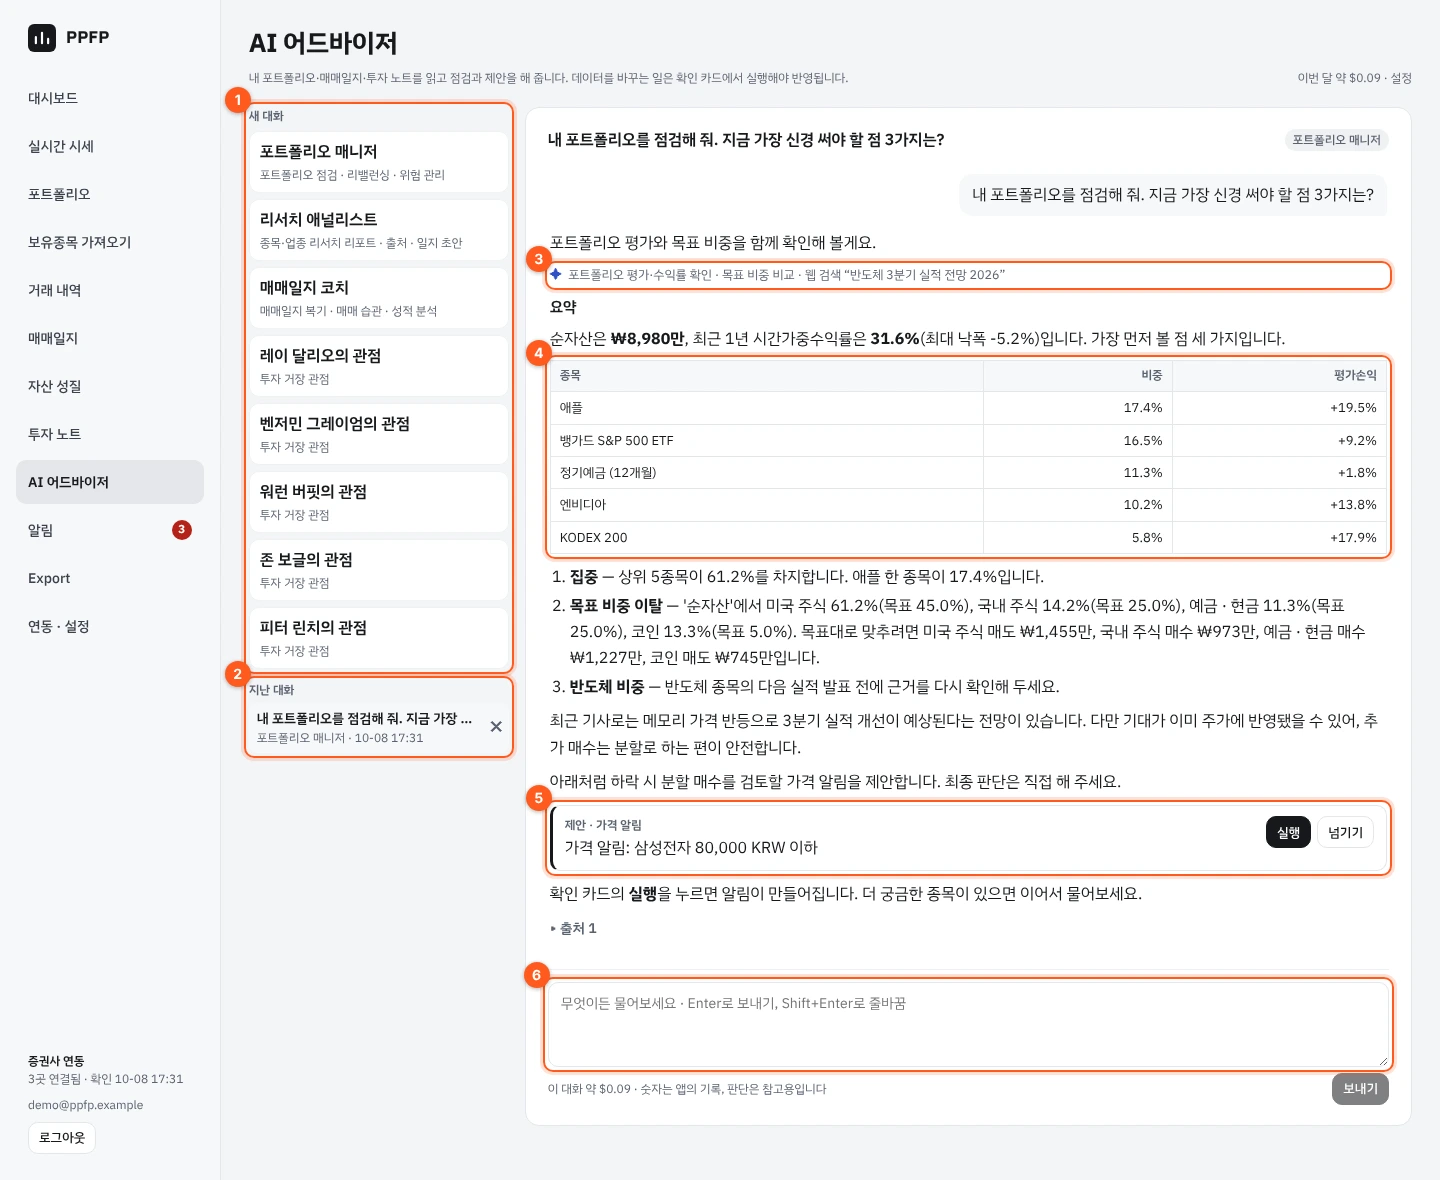
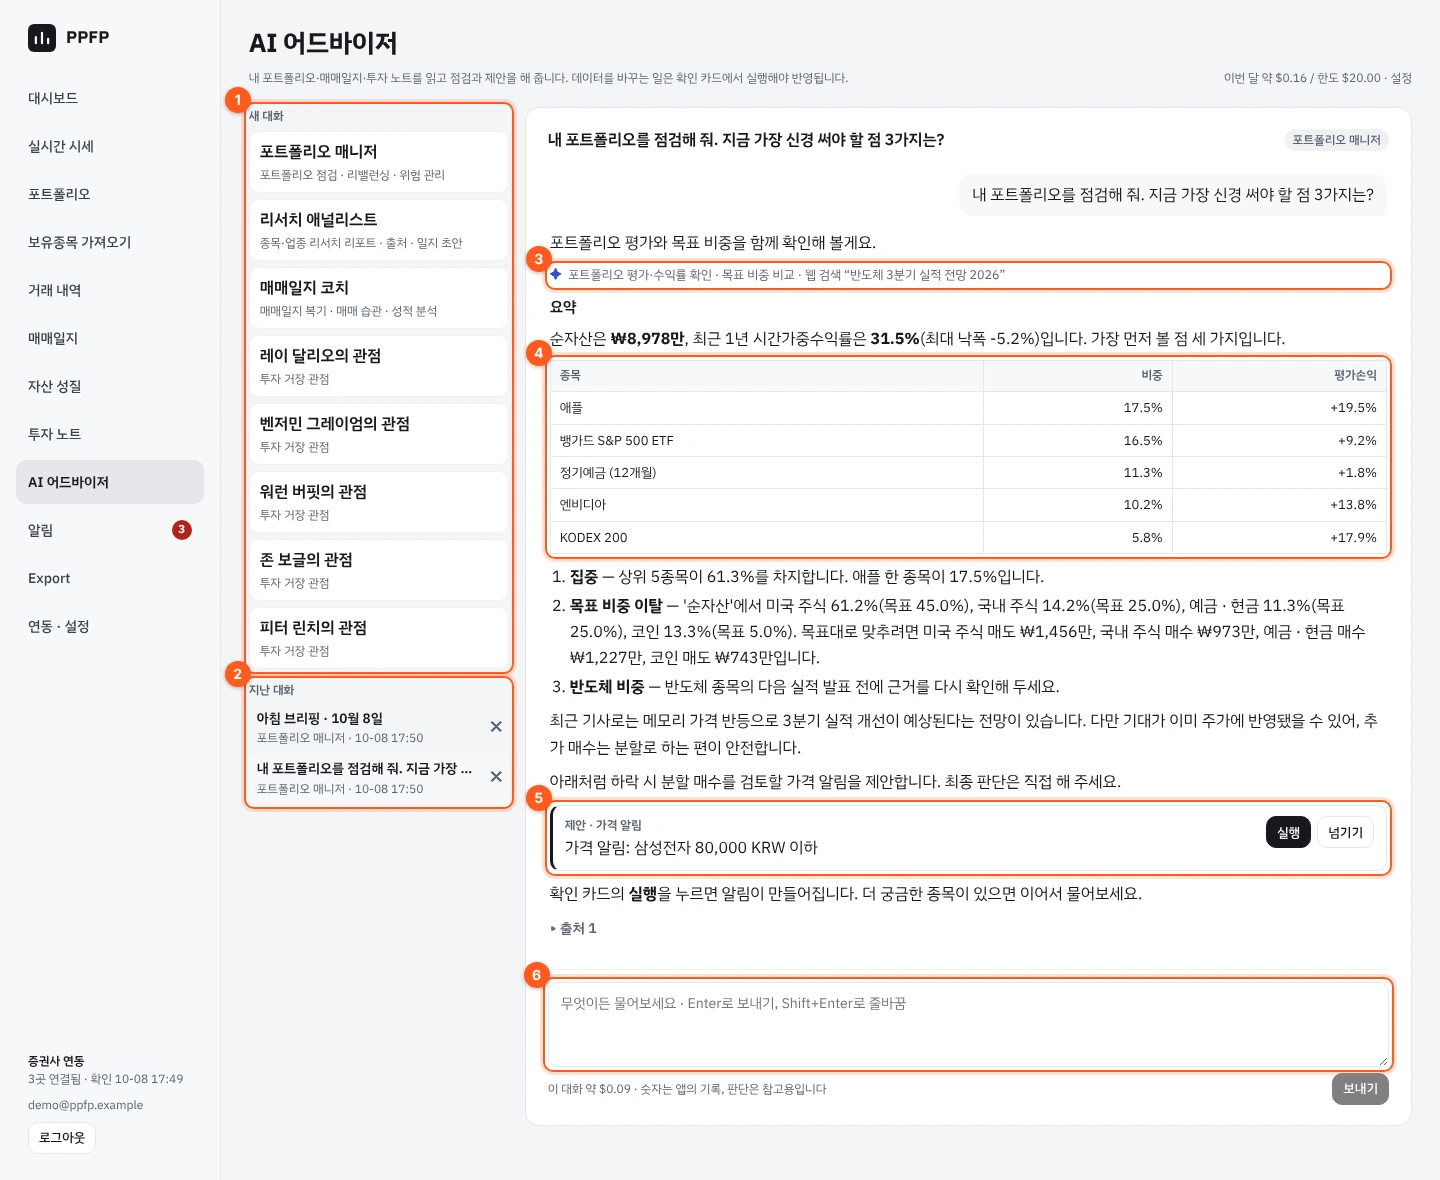
Document the AI morning briefing and alert analysis, with new screens
New section in the AI advisor chapter, the inbox's briefing and AI buttons
in the alerts chapter, the settings' 자동으로 받기 options, and a feature
history row. The demo turns the briefing on and the capture script sends
it through the scheduled-job endpoint against the scripted fake.

Claude-Session: https://claude.ai/code/session_019GZ27AZDMeKkp4rfYLN2LS

Changed region(s): [[0.1562, 0.5797, 0.375, 0.7017], [0.875, 0.061, 0.9375, 0.0915]]

diff --git a/scripts/docs/capture.ts b/scripts/docs/capture.ts
@@ -80,6 +80,8 @@ interface Ids {
   book: string;
   /** A finished AI advisor conversation, prepared through the demo server before capturing */
   aiChat: string;
+  /** Today's morning briefing conversation */
+  aiBriefing: string;
 }
 
 const card = (heading: string, sel = 'h2'): Find => ({ sel, text: heading, closest: '.card' });
@@ -328,7 +330,7 @@ const SHOTS: Shot[] = [
     file: 'alerts',
     path: () => '/alerts',
     wait: 2500,
-    marks: [{ sel: '.nav-badge', closest: 'a' }, { sel: '.inbox li' }, { sel: 'button', text: '모두 읽음' }],
+    marks: [{ sel: '.nav-badge', closest: 'a' }, { sel: '.inbox li' }, { sel: 'button', text: '모두 읽음' }, { sel: 'a', text: '브리핑 전체 보기' }, { sel: 'button', text: 'AI로 분석' }],
   },
   {
     file: 'alerts-price',
@@ -469,12 +471,22 @@ const SHOTS: Shot[] = [
     marks: [{ sel: '.ai-drawer select' }, { sel: '.ai-drawer .ai-md table' }, { sel: '.ai-drawer .ai-action' }],
   },
   {
+    file: 'ai-briefing',
+    path: (ids) => `/ai?c=${ids.aiBriefing}`,
+    wait: 2500,
+    width: 1280,
+    steps: [{ until: "(document.querySelector('.ai-log').scrollTop = 0, true)" }, { wait: 300 }],
+    clip: [{ sel: '.ai-main' }],
+    pad: 12,
+    marks: [{ sel: '.ai-main h2' }, { sel: '.ai-turn.user' }, { sel: '.ai-md h2', text: '오늘 할 일' }],
+  },
+  {
     file: 'ai-settings',
     path: () => '/settings',
     wait: 1500,
     width: 1280,
     clip: [{ sel: '#ai' }],
-    marks: [{ sel: 'input[name="apiKey"]', closest: 'label' }, { sel: 'input[name="monthlyLimit"]', closest: 'label' }, { sel: 'input[name="webSearch"]', closest: 'label' }],
+    marks: [{ sel: 'input[name="apiKey"]', closest: 'label' }, { sel: 'input[name="monthlyLimit"]', closest: 'label' }, { sel: 'input[name="webSearch"]', closest: 'label' }, { sel: 'input[name="briefing"]', closest: 'label' }, { sel: 'input[name="alertAnalysis"]', closest: 'label' }, { sel: 'button', text: '지금 브리핑 받아 보기' }],
   },
   { file: 'export', path: () => '/export', wait: 1000, clip: [{ sel: 'main' }], pad: 0 },
   { file: 'mobile-market', path: () => '/market', wait: 5000, mobile: true, width: 390, height: 844, scale: 2 },
@@ -696,7 +708,14 @@ async function main() {
   const { main: mainUrl, demo, name } = demoUrl();
   const admin = new PrismaClient({ datasourceUrl: mainUrl });
   // The AI advisor talks to the scripted fake in fake-claude.cjs, never to the real API
-  const env = { ...process.env, DATABASE_URL: demo, COOKIE_SECURE: 'false', ANTHROPIC_API_KEY: 'sk-ant-docs-demo-not-a-real-key', ANTHROPIC_BASE_URL: 'https://api.anthropic.com' };
+  const env = {
+    ...process.env,
+    DATABASE_URL: demo,
+    COOKIE_SECURE: 'false',
+    ANTHROPIC_API_KEY: 'sk-ant-docs-demo-not-a-real-key',
+    ANTHROPIC_BASE_URL: 'https://api.anthropic.com',
+    CRON_SECRET: 'docs-demo-cron-secret',
+  };
   let server: ChildProcess | null = null;
   let chrome: Awaited<ReturnType<typeof launchChrome>> | null = null;
   try {
@@ -731,6 +750,7 @@ async function main() {
       buffett: (await db.sage.findFirstOrThrow({ where: { preset: 'buffett' } })).id,
       book: (await db.book.findFirstOrThrow()).id,
       aiChat: '',
+      aiBriefing: '',
     };
 
     console.log(`starting the demo server on ${BASE}`);
@@ -750,6 +770,20 @@ async function main() {
     const events = await chat.text();
     if (!events.includes('"t":"done"')) throw new Error(`AI conversation failed:\n${events}`);
     ids.aiChat = (await db.aiConversation.findFirstOrThrow()).id;
+    // The scheduled-job endpoint sends the morning briefing that is due (from midnight, whatever the time now)
+    await db.aiSettings.updateMany({ data: { briefingHour: 0 } });
+    const cron = await fetch(`${BASE}/api/cron/alerts`, { method: 'POST', headers: { authorization: `Bearer ${env.CRON_SECRET}` } });
+    if (!cron.ok) throw new Error(`cron failed: ${await cron.text()}`);
+    // The server's own timer may have claimed it first: wait for whichever ran
+    for (let i = 0; i < 120 && !ids.aiBriefing; i++) {
+      const n = await db.notification.findFirst({ where: { kind: 'BRIEFING', aiConversationId: { not: null } } });
+      if (n) ids.aiBriefing = n.aiConversationId!;
+      else await sleep(500);
+    }
+    if (!ids.aiBriefing) throw new Error('The morning briefing did not arrive.');
+    // Read already, so the unread badge on every screen stays as before
+    await db.notification.updateMany({ where: { kind: 'BRIEFING' }, data: { readAt: new Date() } });
+    await db.aiSettings.updateMany({ data: { briefingHour: 7 } });
     await db.$disconnect();
 
     mkdirSync(OUT, { recursive: true });

diff --git a/scripts/docs/seed-demo.ts b/scripts/docs/seed-demo.ts
@@ -362,6 +362,8 @@ async function seedKnowledge(uid: string) {
   await createNote(uid, '반도체 업황 바닥 신호. PBR 1배 아래면 분할 매수 검토 #가치투자 #안전마진', `/holdings/${samsung.id}`);
   await createNote(uid, '비중이 커진 종목은 감정이 아니라 목표 비중표로 정리하기 #리스크_관리 #자산배분', '/dashboard');
   await createNote(uid, '린치: 내가 쓰는 제품의 회사부터 보기. 매일 쓰는 앱·결제 서비스 목록 만들어 보기 #성장투자', '/sages');
+  // AI advisor: morning briefing on (the capture script triggers it), alerts analyzed by hand
+  await prisma.aiSettings.create({ data: { userId: uid, briefing: true, briefingHour: 7, briefingWeekdays: false, monthlyLimit: '20.00' } });
 }
 
 main()
